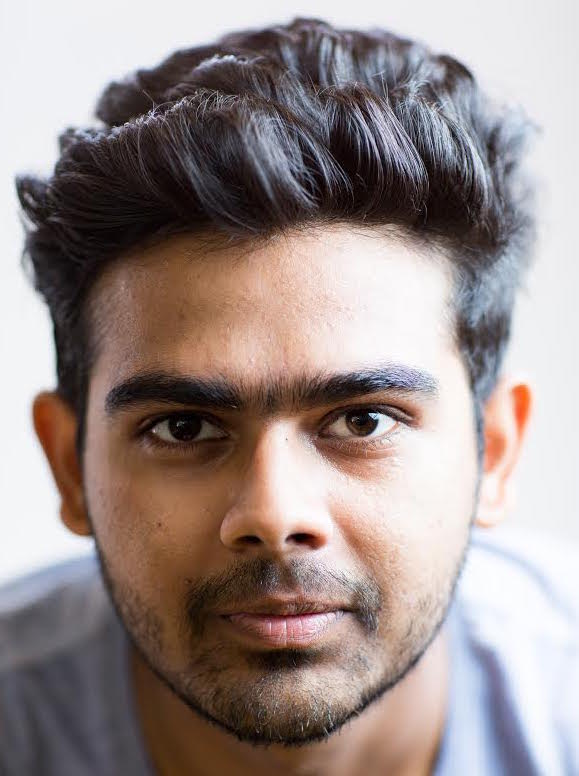
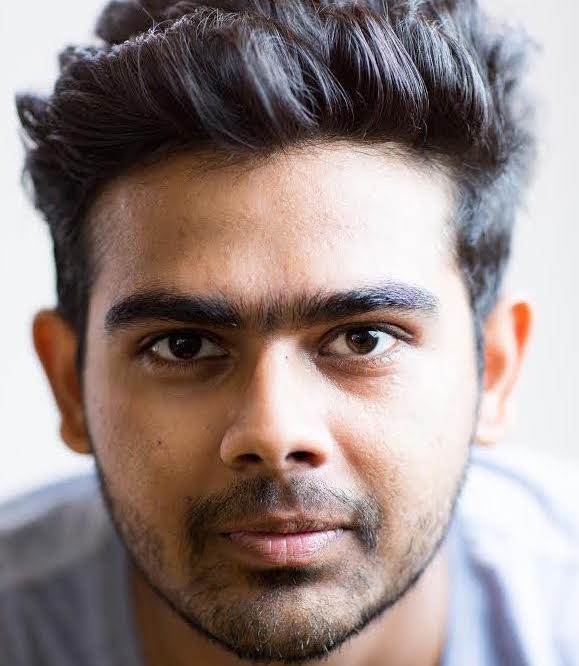
Re-crop photos

diff --git a/members.html b/members.html
@@ -101,7 +101,7 @@
 							<header>
 								<h2>Michael Sutton</h2>
 								<h3>Vice President</h3>
-								<p class="centered no-margin">Ph. D., Biomedical Engineering</p>
+								<p class="centered no-margin">M.S. / Ph. D., Biomedical Engineering</p>
 								<p class="centered"><a href="mailto:vice_president@egsc.columbia.edu">vice_president@egsc.columbia.edu</a></p>
 							</header>
 						</section>
@@ -181,7 +181,7 @@
 								<img src="images/members/social-chair.jpg">
 							</div>
 							<header>
-								<h2>Ranjit Kumar Suresh</h2>
+								<h2>Ranjith Kumar Suresh</h2>
 								<h3>Social Chair</h3>
 								<p class="centered no-margin">M. S., Industrial Engineering and Operations Research</p>
 								<p class="centered"><a href="mailto:social_chair@egsc.columbia.edu">social_chair@egsc.columbia.edu</a></p>
@@ -197,7 +197,7 @@
 							</div>
 							<header>
 								<h2>Iden Kurtaliaj</h2>
-								<h3>Inter-school Chair</h3>
+								<h3>Interschool Chair</h3>
 								<p class="centered no-margin">M. S., Mechanical Engineering</p>
 								<p class="centered"><a href="mailto:interschool_chair@egsc.columbia.edu">interschool_chair@egsc.columbia.edu</a></p>
 							</header>
